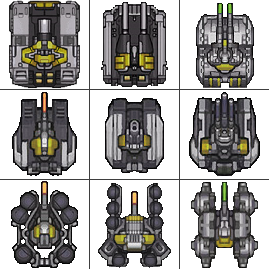
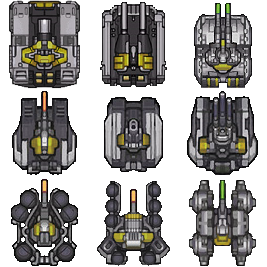
Fixed yellow sprites

diff --git a/src/sample/Main.java b/src/sample/Main.java
@@ -21,7 +21,7 @@ public class Main extends Application {
         GameMap map = new GameMap(Integer.parseInt(reader.get("mapxCells")), Integer.parseInt(reader.get("mapyCells")), boxBoundaries);
         Parent root = map.getPane();
         Scene scene = new Scene(root, boxBoundaries * map.getXCells(), boxBoundaries * map.getYCells());
-        Tank tank = new Tank(6, TankColor.BLACK);
+        Tank tank = new Tank(4, TankColor.YELLOW);
 
         if(reader.get("controlScheme").equalsIgnoreCase("snake")){
             new GameCycle(500, () -> {
